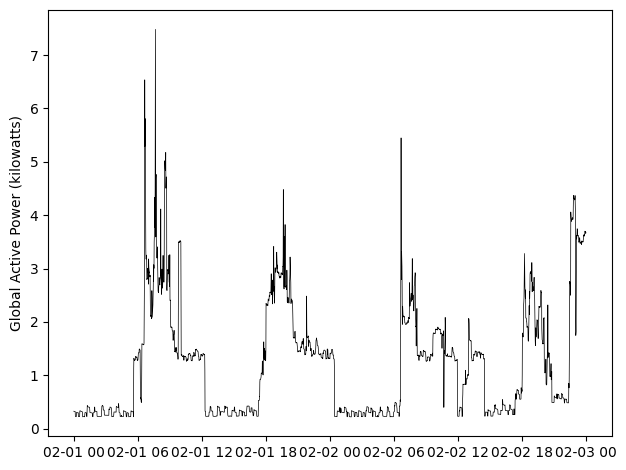
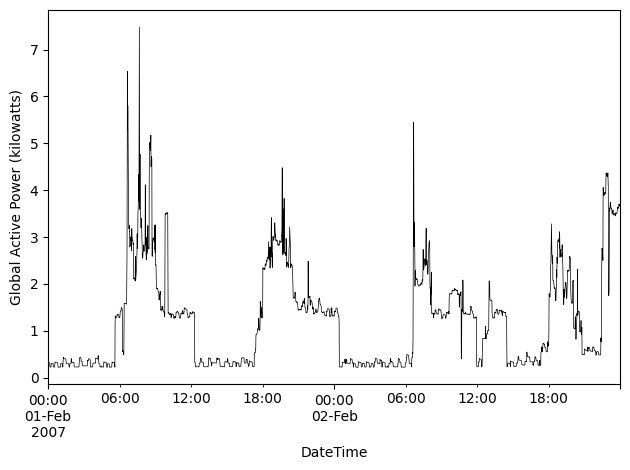
plot 2,3,4

Changed region(s): [[0.0, 0.0298, 1.0, 0.983]]

diff --git a/Lab_3_electricpower.py b/Lab_3_electricpower.py
@@ -23,8 +23,8 @@ data['Sub_metering_3'] = data['Sub_metering_3'].astype(float)
 data['Voltage'] = data['Voltage'].astype(float)
 data['Global_reactive_power'] = data['Global_reactive_power'].astype(float)
 
-## Add date vao time de plot cac chart su dung thoi gian 
-data['DateTime']=\
+# Add date vao time de plot cac chart su dung thoi gian
+data['DateTime'] =\
     data['Date'].astype(str) + ' ' + data['Time'].astype(str)
 data['DateTime'] = pd.to_datetime(
     data['DateTime'], format='%Y/%m/%d %H:%M:%S')
@@ -32,6 +32,8 @@ data['DateTime'] = pd.to_datetime(
 ############################ Complete the following 4 functions ###############
 
 # %%
+
+
 def plot1():
     plt.hist(data['Global_active_power'], color='red', ec='black', bins=15)
     plt.title('Global Active Power')
@@ -49,119 +51,92 @@ def plot1():
     plt.savefig('plot1.png', bbox_inches='tight')
     plt.show()
 
+
 plot1()
 
-#%%
-def plot2():
-    # data[['Global_active_power', 'DateTime']].plot(
-    #     x='DateTime', y='Global_active_power', color='black')
-    plt.plot(data['DateTime'], data['Global_active_power'], color='black')
+# %%
+
+
+def plot2(ax=plt.figure(), save=False):
+    data[['Global_active_power', 'DateTime']].plot(
+        x='DateTime', y='Global_active_power',
+        color='black', linewidth=0.5)
     plt.ylabel('Global Active Power (kilowatts)')
-    plt.setp(plt.gca().get_lines(), linewidth=0.5)
-    plt.tight_layout()
-    plt.savefig('plot2.png', bbox_inches='tight')
-    # plt.legend().set_visible(False)
-
-    plt.show()
-
-plot2()
-
-# %%
-def plot3(ax=None):
-    ax=data[['Sub_metering_1', 'Sub_metering_2', 'Sub_metering_3', 'DateTime']].plot(
-        x='DateTime', y=['Sub_metering_1', 'Sub_metering_2', 'Sub_metering_3'], color=['black', 'red', 'blue'], linewidth=0.5)
-    ax.set_ylabel('Energy sub metering')
-    # ax.setp(ax.gca().get_lines(), linewidth=0.5)
-    # linewidth = 0.5
-    
-    # ax.tight_layout()
-    ax.figure.savefig('plot3.png', bbox_inches='tight')
-
-    # ax.show()
-
-plot3(plt.figure())
-
-# %%
-def add_plot(column, save=False):
-    data[[column, 'DateTime']].plot(
-        x='DateTime', y=column, color='black')
-    plt.ylabel(column)
-    plt.setp(plt.gca().get_lines(), linewidth=0.5)
     plt.tight_layout()
     plt.legend().set_visible(False)
 
-    if save: plt.savefig(f'{column}.png', bbox_inches='tight')
+    if save:
+        plt.savefig('plot2.png', bbox_inches='tight')
+
+
+plot2(save=True)
+
+# %%
+
+
+def plot3(ax=plt.figure(), save=False):
+    data[['Sub_metering_1', 'Sub_metering_2', 'Sub_metering_3', 'DateTime']].plot(
+        x='DateTime', y=['Sub_metering_1', 'Sub_metering_2', 'Sub_metering_3'],
+        color=['black', 'red', 'blue'], linewidth=0.5)
+    plt.ylabel('Energy sub metering')
+    plt.tight_layout()
+
+    if save:
+        plt.savefig('plot3.png', bbox_inches='tight')
+
+
+plot3(save=True)
+
+# %%
+
+
+def plot(column, ax, color='black', ytitle=None):
+    if ytitle == None:
+        ytitle = column
+
+    ax.plot(
+        data['DateTime'], data[column],
+        color=color, linewidth=0.5
+    )
+
+    ax.set_ylabel(ytitle)
+    ax.set_xticks(
+        [
+            '2007-02-01 00:00:00',
+            '2007-02-01 12:00:00',
+            '2007-02-02 00:00:00',
+            '2007-02-02 12:00:00',
+            '2007-02-02 23:59:00'
+        ],
+        [
+            '00:00\n01-Feb\n2007',
+            '12:00',
+            '00:00\n02-Feb',
+            '12:00',
+            '23:59',
+        ]
+    )
+    # ax.set_title(f'{column} over time')
+
+
+def plot4(save=False):
+    fig, axs = plt.subplots(nrows=2, ncols=2, figsize=(12, 8))
+
+    plot('Global_active_power', axs[0, 0],
+         ytitle='Global Active Power (kilowatts)')
+    plot('Voltage', axs[0, 1])
+    plot('Sub_metering_1', axs[1, 0])
+    plot('Sub_metering_2', axs[1, 0], 'red')
+    plot('Sub_metering_3', axs[1, 0], 'blue', ytitle='Energy sub metering')
+    plot('Global_reactive_power', axs[1, 1])
+
+    fig.subplots_adjust(hspace=0.3, wspace=0.3)
+    if save:
+        fig.savefig('plot4.png', bbox_inches='tight')
 
     plt.show()
 
-add_plot('Voltage').show()
-add_plot('Global_reactive_power').show()
 
-# %%
-def plot4():
-    # add 4 subplots
-    # plot_list=[add_plot('Voltage'), add_plot('Voltage'), plot2(), plot3()]
-    fig = plt.figure(figsize=(8, 8))
-
-    ax1 = fig.add_subplot(2, 2, 1)
-    ax1.plot(
-        data=data[['Global_active_power', 'DateTime']],
-        x='DateTime', y='Global_active_power', color='black'
-    )
-
-
-plot4()
-
-# %%
-import matplotlib.pyplot as plt
-
-fig, axs = plt.subplots(nrows=2, ncols=2, figsize=(12, 8))
-
-# axs[0, 0].plot(data['Time'], data['Global_active_power'], color='black')
-# axs[0, 0].set_ylabel('Global Active Power (kilowatts)')
-plot2()
-axs[0, 0].get_children()[0]
-
-plot3()
-axs[0, 1].get_children()[0]
-
-
-# axs[0, 1].plot(data['DateTime'], data['Voltage'], color='black')
-# axs[0, 1].set_ylabel('Voltage')
-
-# axs[1, 0].plot(data['DateTime'], data['Sub_metering_1'], color='black')
-# axs[1, 0].plot(data['DateTime'], data['Sub_metering_2'], color='red')
-# axs[1, 0].plot(data['DateTime'], data['Sub_metering_3'], color='blue')
-# axs[1, 0].set_ylabel('Energy sub metering')
-
-# axs[1, 1].plot(data['DateTime'], data['Global_reactive_power'], color='black')
-# axs[1, 1].set_ylabel('Global Reactive Power')
-
-fig.tight_layout()
-fig.subplots_adjust(hspace=0.5, wspace=0.2)
-
-plt.show()
-
-# %%
-import matplotlib.pyplot as plt
-
-def plot(column, ax):
-    ax.plot(data['DateTime'], data[column], color='black')
-    ax.set_ylabel(column)
-    ax.set_xlabel('Date')
-    ax.set_title(f'{column} over time')
-
-fig, axs = plt.subplots(nrows=2, ncols=2, figsize=(12, 8))
-
-plot('Global_active_power', axs[0, 0])
-plot('Sub_metering_1', axs[0, 1])
-plot('Sub_metering_2', axs[0, 1])
-plot('Sub_metering_3', axs[0, 1])
-plot('Voltage', axs[1, 0])
-plot('Global_reactive_power', axs[1, 1])
-
-fig.subplots_adjust(hspace=0.5, wspace=0.2)
-
-plt.show()
+plot4(True)
 
 # %%
